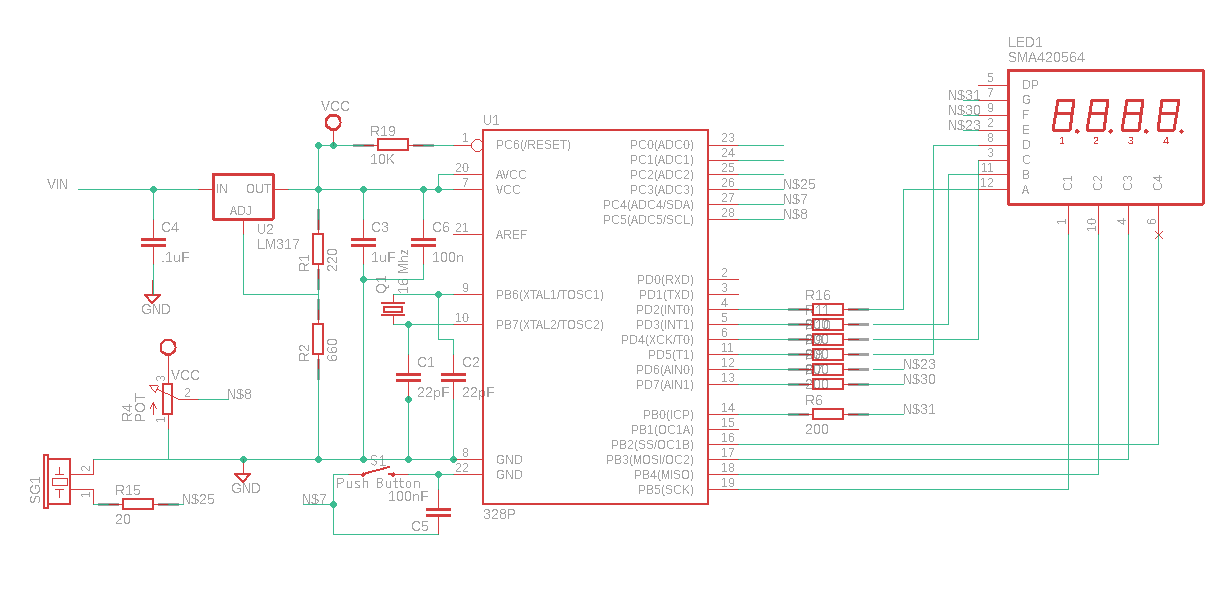
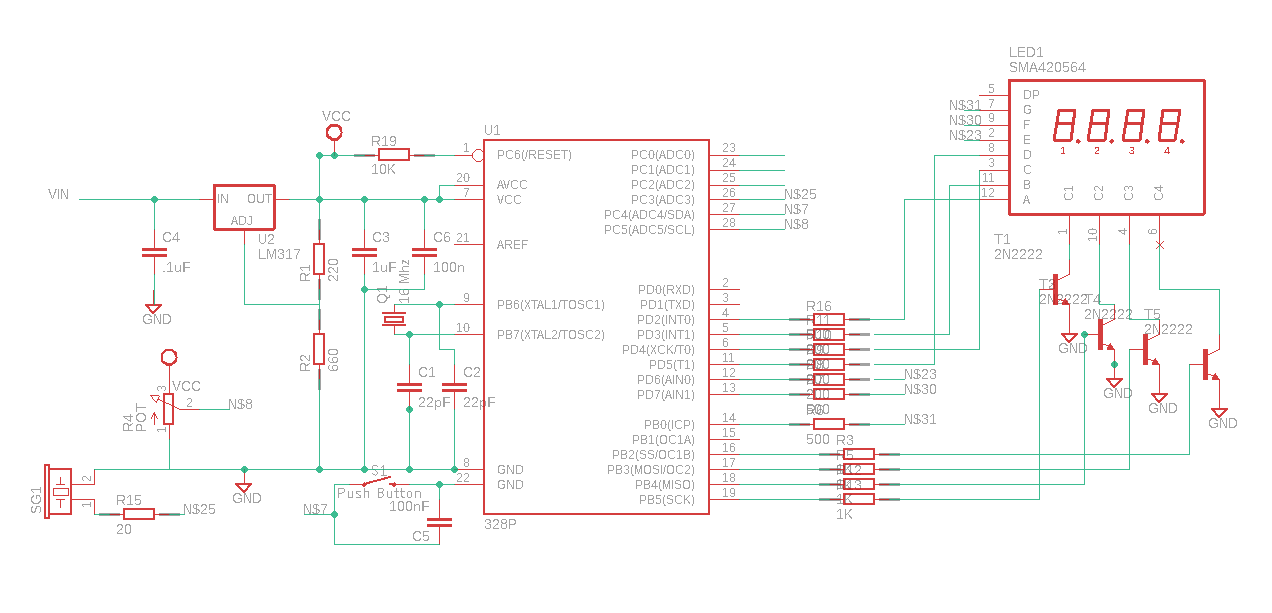
adding transistors to design

Changed region(s): [[0.0, 0.0607, 0.9878, 0.9106], [0.0926, 0.5767, 0.2161, 0.7285], [0.0926, 0.4857, 0.1543, 0.5464]]

diff --git a/README.md b/README.md
@@ -32,9 +32,11 @@ You will need following parts.
 >
 > ATmega328p micro-controller as per schematic or alternatively a Arduino uno/nano module.
 >
-> Resistors: 20 ohms , 220 ohms, 660 ohms, 10K
+> Resistors: 20 ohms , 220 ohms, 660 ohms, 10K  , 500ohms X 7, 1K X 4
 >
-> 4 digit seven segment module  (SMA420564)
+> Transistors 4 X 2N2222 NPN
+>
+> One 4 digit seven segment module  (SMA420564)
 >
 > one 50 k potentiometer 
 >
